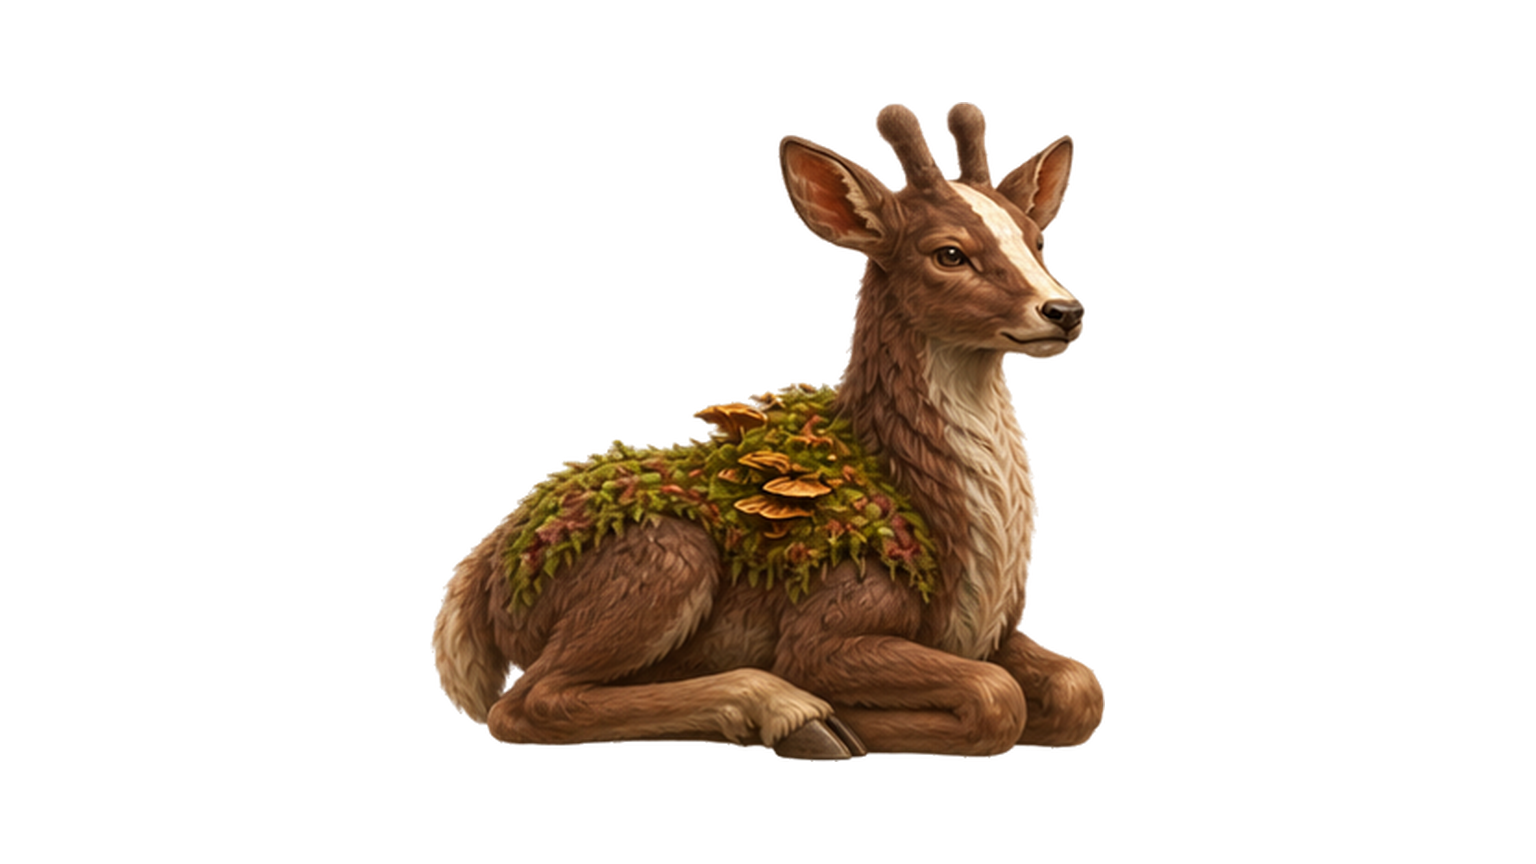
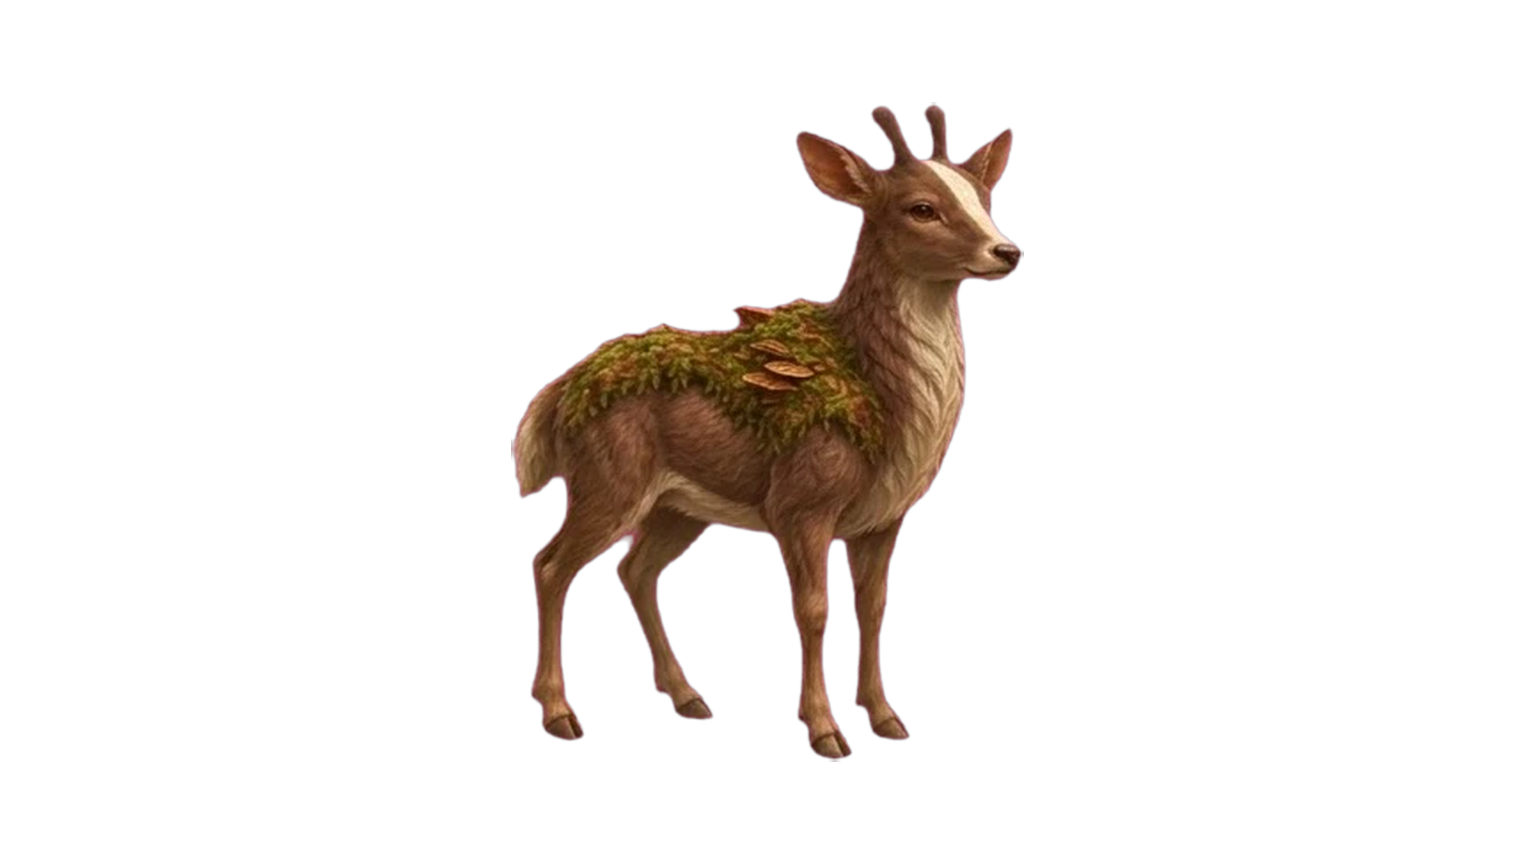
Cervomusgo: pose oficial nova da forma 1 (em pé), direções das formas 1 e 2 recortadas e tools/recortar_folha.py
Claude-Session: https://claude.ai/code/session_01CGVLTDGSSxihYWLuUwRgVi

Changed region(s): [[0.2812, 0.125, 0.7188, 0.9062]]

diff --git a/tools/recortar_folha.py b/tools/recortar_folha.py
@@ -1,0 +1,52 @@
+"""Recorta uma folha de Oníricos (fundo chroma magenta ou verde) em imagens separadas com fundo transparente.
+Uso: python3 tools/recortar_folha.py folha.png pasta_saida nome1 nome2 ... [--chroma magenta|verde]
+Os nomes seguem a ordem de leitura (linha a linha, da esquerda para a direita)."""
+import sys, numpy as np
+from pathlib import Path
+from PIL import Image
+
+def alfa_chroma(rgb, chroma):
+    r, g, b = [rgb[..., i].astype(int) for i in range(3)]
+    if chroma == 'verde': fundo = (g - np.maximum(r, b)) ; spill = ('g',)
+    else: fundo = (np.minimum(r, b) - g)
+    a = np.clip(255 - (fundo - 40) * 4, 0, 255).astype(np.uint8)   # 40+ de "chroma" vira transparente com borda suave
+    out = rgb.copy()
+    if chroma == 'verde': out[..., 1] = np.minimum(out[..., 1], np.maximum(out[..., 0], out[..., 2]))
+    else:  # tira só o reflexo magenta (azul acima do verde); marrons e vermelhos ficam intactos
+        r, g, b = [out[..., k].astype(int) for k in range(3)]
+        tinto = b > g
+        out[..., 2] = np.where(tinto, g, b).astype(np.uint8)
+        out[..., 0] = np.where(tinto, np.minimum(r, g + (r - b).clip(0) + 30), r).clip(0, 255).astype(np.uint8)
+    return out, a
+
+def main():
+    args = [x for x in sys.argv[1:] if not x.startswith('--')]
+    chroma = 'verde' if '--chroma' in sys.argv and sys.argv[sys.argv.index('--chroma') + 1] == 'verde' else 'magenta'
+    if chroma == 'verde' and 'verde' in args: args.remove('verde')
+    if 'magenta' in args: args.remove('magenta')
+    src, saida, nomes = args[0], Path(args[1]), args[2:]
+    rgb = np.array(Image.open(src).convert('RGB'))
+    cor, a = alfa_chroma(rgb, chroma)
+    m = a > 128
+    def faixas(v, minimo):  # trechos com conteúdo separados por vazios
+        out, ini = [], None
+        for i, x in enumerate(v):
+            if x and ini is None: ini = i
+            if not x and ini is not None:
+                if i - ini > minimo: out.append((ini, i))
+                ini = None
+        if ini is not None: out.append((ini, len(v)))
+        return out
+    caixas = []
+    for y0, y1 in faixas(m.any(1), 20):
+        for x0, x1 in faixas(m[y0:y1].any(0), 20):
+            ys = np.where(m[y0:y1, x0:x1].any(1))[0]
+            caixas.append((slice(y0 + ys[0], y0 + ys[-1] + 1), slice(x0, x1)))
+    saida.mkdir(parents=True, exist_ok=True)
+    for i, s in enumerate(caixas):
+        nome = nomes[i] if i < len(nomes) else f'vista-{i + 1}'
+        img = Image.fromarray(np.dstack([cor, a])[s], 'RGBA')
+        from PIL import ImageFilter
+        img.putalpha(img.getchannel('A').filter(ImageFilter.MinFilter(3)).filter(ImageFilter.GaussianBlur(0.6)))  # some a franja magenta
+        img = img.crop(img.getbbox()); img.save(saida / f'{nome}.png'); print(nome, img.size)
+main()
